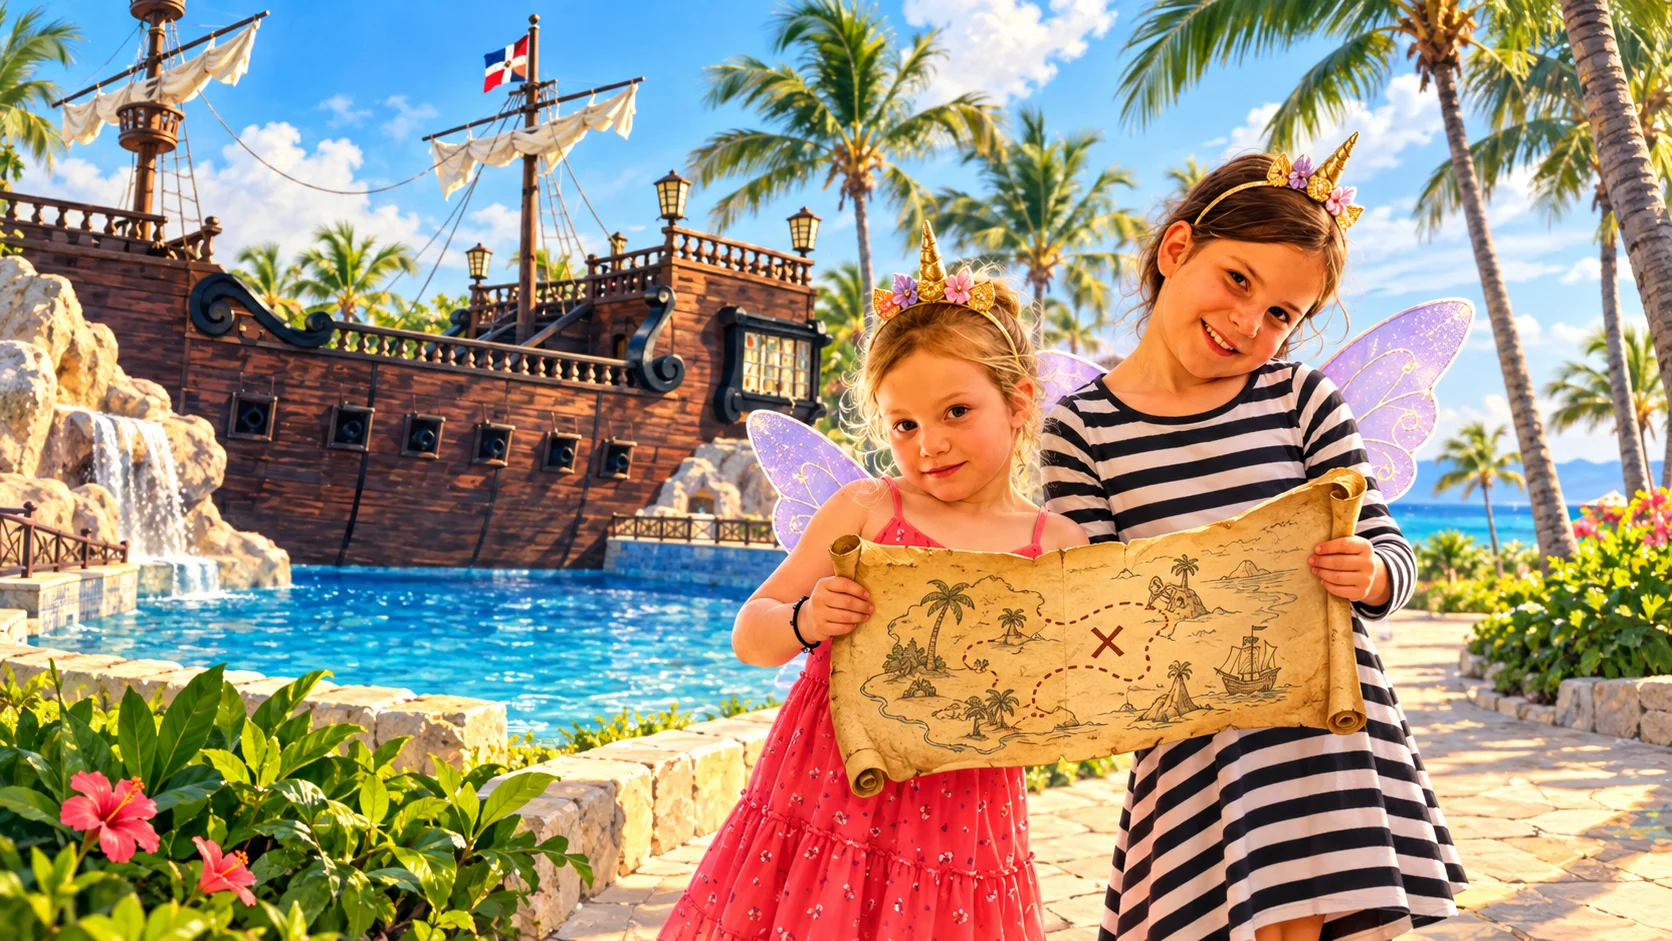
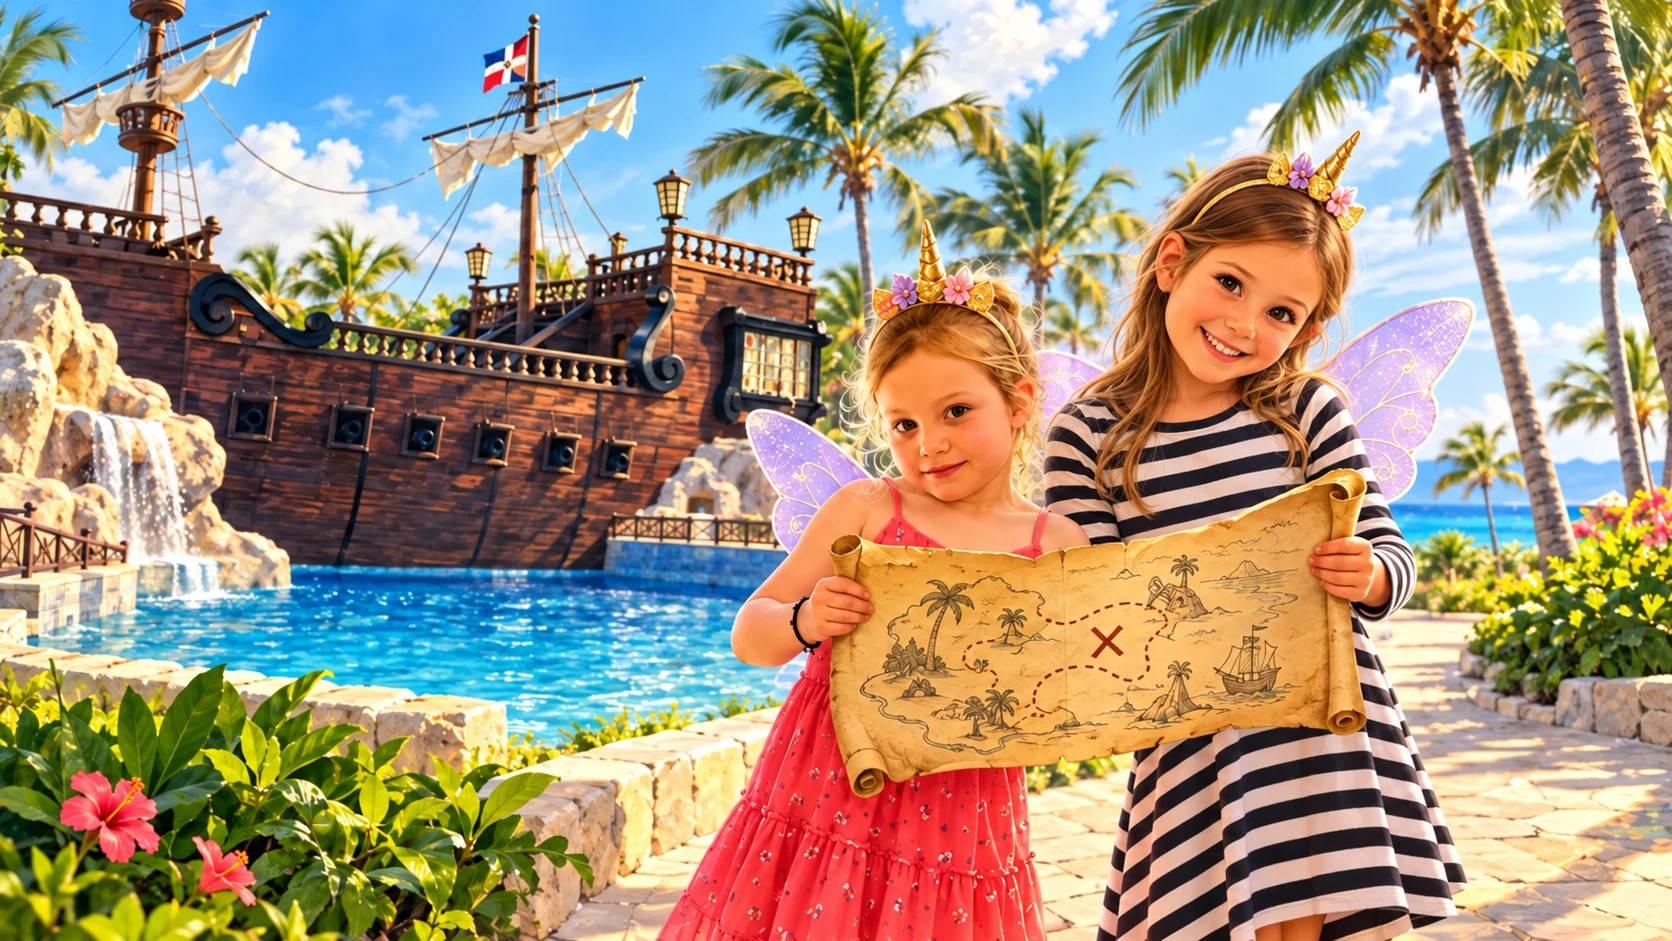
fix: match Liana adventure portrait to welcome character

diff --git a/ops/PROJECT-STATE.md b/ops/PROJECT-STATE.md
@@ -489,3 +489,20 @@ Double clic bloqué pendant la transition; navigation annulée si la page est
 quittée ou cachée. Animation réduite/pause : ouverture immédiate sans étoiles.
 Suite complète et build réussis. Préversion interactive à vérifier; pas de
 validation Safari/iPad physique. Production inchangée.
+
+## Ressemblance de Liana — 26 octobre 2026
+PR52, base f7b0352. Image dominicaine retouchée avec le générateur intégré :
+visage et cheveux de la sœur brune guidés par le personnage de droite de
+accueil-famille.png. Tenue rayée, carte et composition conservées. Consigne :
+reprendre les proportions illustrées, yeux, joues et sourire de la référence;
+ne pas changer la petite sœur ni le décor. Revue visuelle effectuée, encodage
+WebP qualité 88. Aucun code de jeu modifié; accueil original inchangé.
+Préversion à contrôler; cette retouche est une image fixe, pas une nouvelle vidéo.
+Audit des apparitions : src/app.js utilise accueil-famille et accueil-anime;
+les avatars .portrait/.family-face recadrent la même référence accueil-famille.
+La couverture dominicaine est partagée par les deux profils. voyage-soeurs.webp
+est visuellement cohérent mais sans référence active dans src. Les icônes app
+représentent la chouette, pas les enfants. Contrôle visuel du visage à 1,3 s dans
+le lecteur de préversion; audit complet des frames vidéo non conclu : les copies
+MP4 téléchargées produisent des erreurs de décodage ffmpeg. Ne pas revendiquer
+une validation intégrale de chaque frame ni modifier la vidéo sur cette base.
